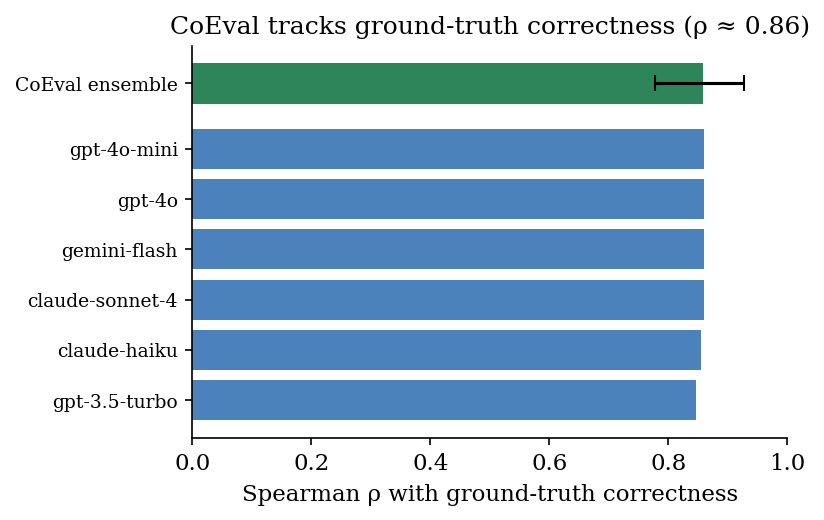
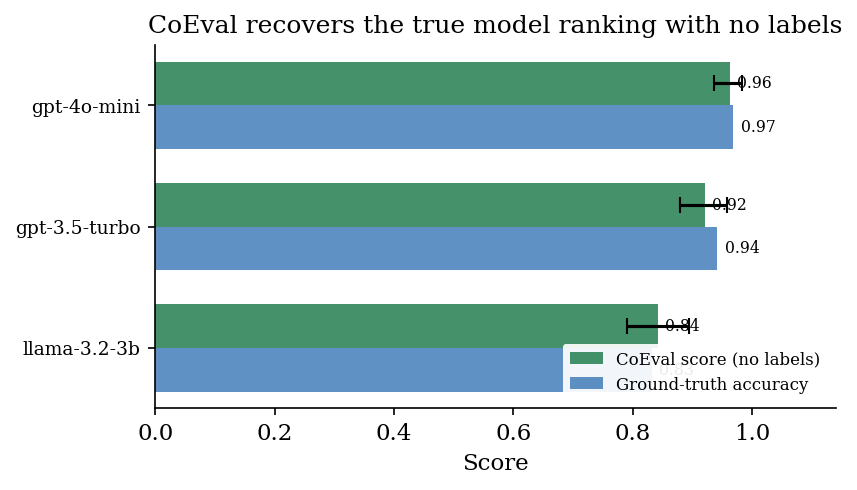
paper: replace confusing Figure 2 with a clear ranking-recovery figure
Figure 2 previously plotted per-judge vs ensemble correlation with ground truth.
On objective QA every capable judge converges to ~0.85, so the bars were visually
identical and read as "the ensemble adds nothing over a single judge", which
misrepresents the method. Replace it with the decisive evidence for the use case:
CoEval's label-free scores reproduce the ground-truth model ranking (CoEval score
vs ground-truth accuracy per model, within 0.02, ordering identical). Reposition
it next to Table 2 and reference it from the ranking paragraph.

This does not change any claim: Section 5.1 still frames the objective-QA result
as an accuracy/vendor-independence floor (where judges agree by construction), and
the ensemble's advantage over a single judge remains where it is demonstrated, in
the bias-cancellation result of Section 5.3. Regenerated CoEval.docx.

diff --git a/docs/paper/index.html b/docs/paper/index.html
@@ -540,22 +540,21 @@ $$\kappa \;=\; \frac{p_o - p_e}{1 - p_e},$$
   opposite sign that the ensemble provably cancels (Section&nbsp;5.3), paired with the contamination-resistant items
   CoEval <em>generates</em> rather than consumes; these are properties no single judge provides.
 </p>
-<figure>
-  <img src="figures/f4_correctness_corr.png" alt="Spearman correlation with ground-truth correctness per judge and ensemble"/>
-  <figcaption><strong>Figure 2.</strong> Rank correlation of CoEval accuracy scores with ground-truth answer correctness
-    on exact-match QA ($191$ datapoints, $573$ responses). The frontier cross-family ensemble reaches $\rho = 0.86$
-    (datapoint-clustered 95% CI shown); the three frontier judges converge on identical labels, so the ensemble equals
-    its best member here, a vendor-independent reliability floor on objective tasks.</figcaption>
-</figure>
-
 <p>
   Evaluation is a means to an end, <em>ranking</em> candidate models for a use case, so we verify that CoEval
-  scores yield the correct ranking. Table&nbsp;2 ranks the three student models by their CoEval frontier-ensemble
+  scores yield the correct ranking. Figure&nbsp;2 and Table&nbsp;2 rank the three student models by their CoEval frontier-ensemble
   accuracy score and, independently, by ground-truth correctness. The two rankings are <strong>identical</strong>;
   CoEval's scores fall within $0.02$ of the true accuracies, and the confidence intervals cleanly separate the weakest
   model. Producing this ranking required a single configuration file and no human annotation: the core operation
   the framework is built to make easy.
 </p>
+<figure>
+  <img src="figures/f4_correctness_corr.png" alt="CoEval ensemble score versus ground-truth accuracy per model; rankings identical"/>
+  <figcaption><strong>Figure 2.</strong> CoEval recovers the true model ranking with no labels. For each student model
+    the CoEval frontier-ensemble accuracy score (green, datapoint-clustered 95% CI) and the held-out ground-truth
+    accuracy (blue) coincide within $0.02$, and the order <code>gpt-4o-mini</code> &gt; <code>gpt-3.5-turbo</code> &gt;
+    <code>llama-3.2-3b</code> is reproduced exactly (cf. Table&nbsp;2).</figcaption>
+</figure>
 <div class="tablewrap">
 <table class="data">
   <caption><strong>Table 2.</strong> CoEval reproduces the ground-truth model ranking. Three student models ranked by

diff --git a/docs/paper/figures/make_figures.py b/docs/paper/figures/make_figures.py
@@ -71,23 +71,35 @@ def f3_verbosity_forest():
 
 
 def f4_correctness_corr():
-    """F4: per-judge + ensemble Spearman rho with ground-truth correctness (QA accuracy)."""
-    d = _load("EXP001b-exactmatch-qa/reports/benchmark_correlation_accuracy.json")
-    perj = d["per_judge"]
-    names = sorted(perj, key=lambda j: perj[j]["overall"]["rho"])
-    vals = [perj[j]["overall"]["rho"] for j in names]
-    ens = d["ensemble"]["overall"]
-    fig, ax = plt.subplots(figsize=(5.6, 3.6))
-    yy = list(range(len(names)))
-    ax.barh(yy, vals, color=BLUE, alpha=0.85)
-    ax.barh([len(names) + 0.3], [ens["rho"]], color=GREEN,
-            xerr=[[ens["rho"] - ens["lo"]], [ens["hi"] - ens["rho"]]], capsize=4)
-    ax.set_yticks(yy + [len(names) + 0.3])
-    ax.set_yticklabels([n.replace("single judge: ", "") for n in
-                        [perj[j]["method"] for j in names]] + ["CoEval ensemble"], fontsize=9)
-    ax.set_xlabel("Spearman ρ with ground-truth correctness")
-    ax.set_xlim(0, 1)
-    ax.set_title("CoEval tracks ground-truth correctness (ρ ≈ 0.86)")
+    """F4: CoEval recovers the true model ranking with no labels (QA accuracy).
+
+    Earlier this figure plotted per-judge vs ensemble correlation, but on objective
+    QA every capable judge converges to ~0.85, so the bars were visually identical
+    and read as "the ensemble adds nothing". The decisive evidence for the use case
+    is that CoEval's label-free scores reproduce the ground-truth ranking; we plot
+    that directly (the ensemble-vs-single-judge advantage is Figure 4 / Section 5.3)."""
+    d = _load("EXP001b-exactmatch-qa/reports/model_ranking.json")
+    rows = d["ranking"]  # already best -> worst
+    models = [r["student"] for r in rows]
+    coe = [r["coeval_score"] for r in rows]
+    err = [[r["coeval_score"] - r["lo"] for r in rows], [r["hi"] - r["coeval_score"] for r in rows]]
+    gt = [r["ground_truth_acc"] for r in rows]
+    y = np.arange(len(models))[::-1]  # best model at the top
+    h = 0.36
+    fig, ax = plt.subplots(figsize=(5.8, 3.4))
+    ax.barh(y + h / 2, coe, height=h, color=GREEN, alpha=0.9,
+            xerr=err, capsize=4, label="CoEval score (no labels)")
+    ax.barh(y - h / 2, gt, height=h, color=BLUE, alpha=0.75,
+            label="Ground-truth accuracy")
+    for yi, c, g in zip(y, coe, gt):
+        ax.text(c + 0.012, yi + h / 2, f"{c:.2f}", va="center", fontsize=7.5)
+        ax.text(g + 0.012, yi - h / 2, f"{g:.2f}", va="center", fontsize=7.5)
+    ax.set_yticks(y)
+    ax.set_yticklabels(models, fontsize=9)
+    ax.set_xlim(0, 1.14)
+    ax.set_xlabel("Score")
+    ax.set_title("CoEval recovers the true model ranking with no labels")
+    ax.legend(loc="lower right", fontsize=8, frameon=True, framealpha=0.92, edgecolor="none")
     fig.tight_layout(); fig.savefig(FIG / "f4_correctness_corr.png", bbox_inches="tight"); plt.close(fig)
 
 